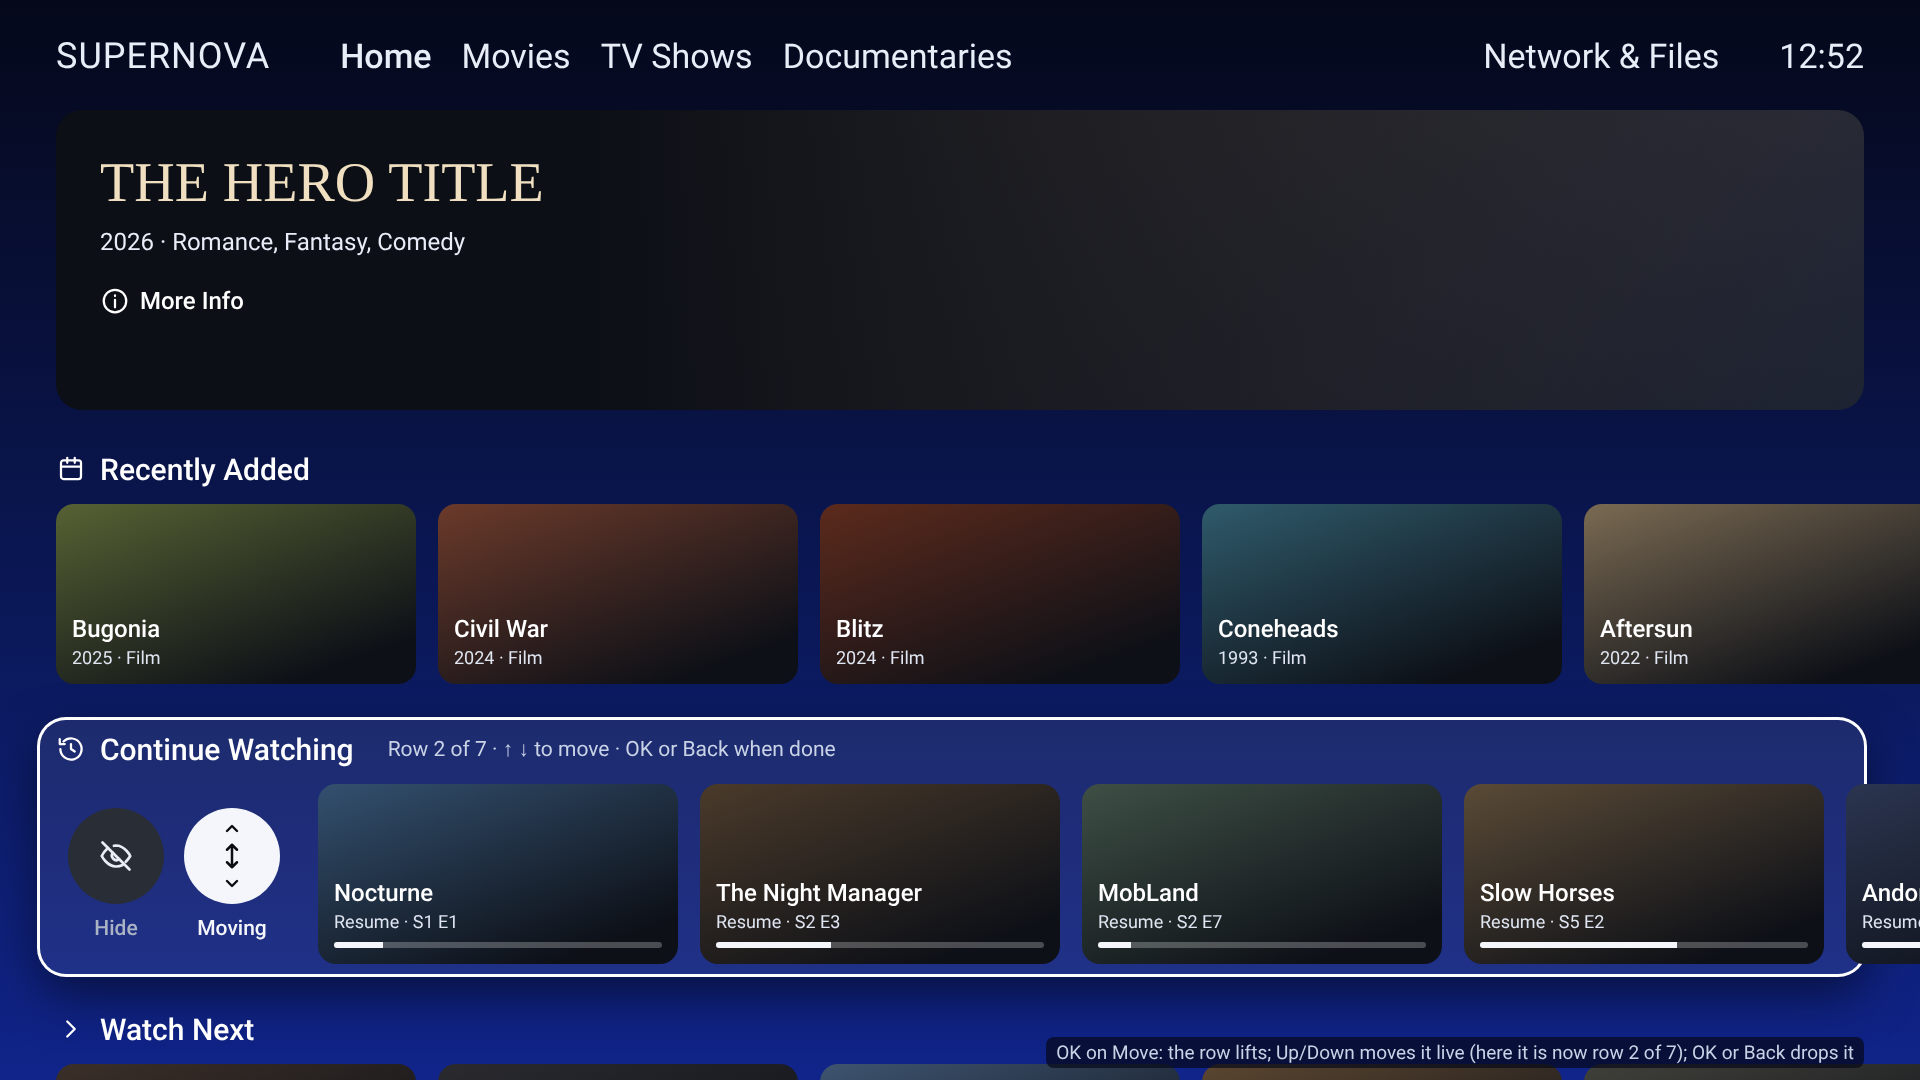
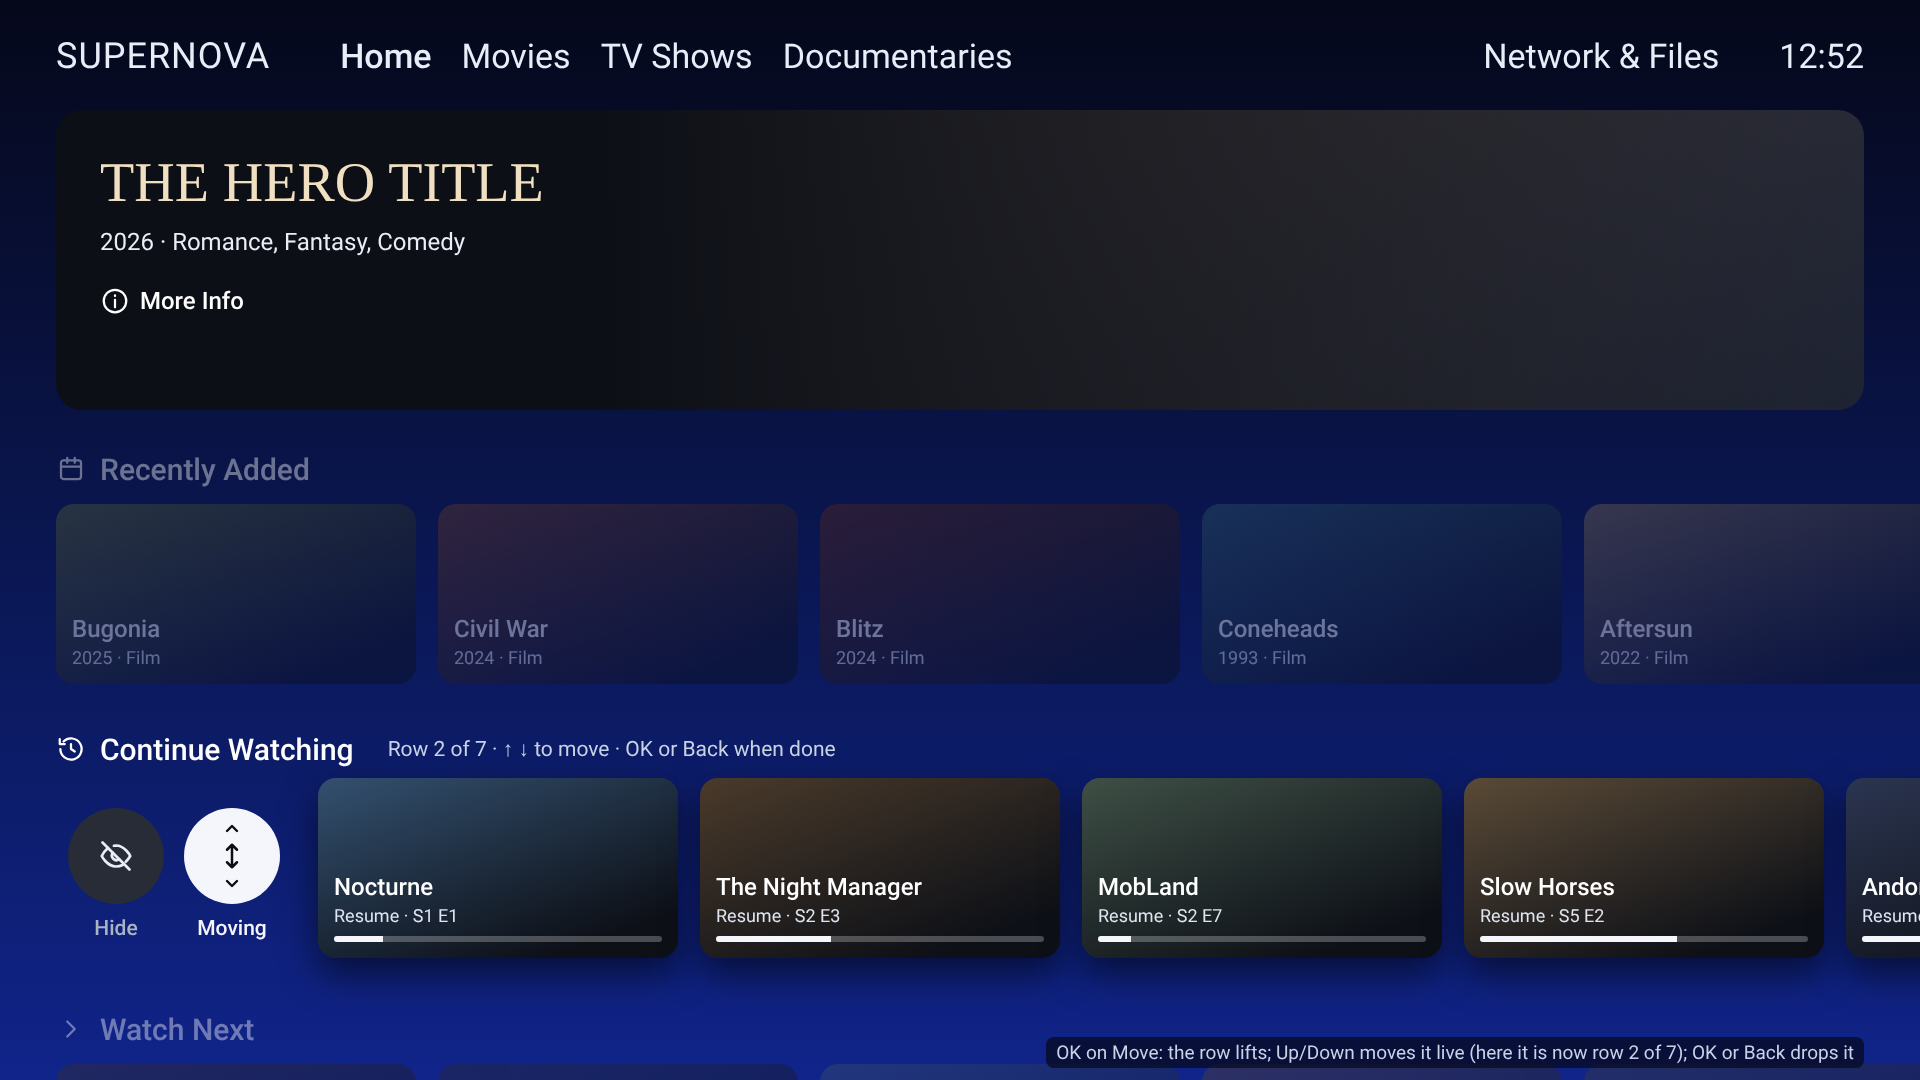
Home row controls: first-card hint, moving row without outline box
Claude-Session: https://claude.ai/code/session_01FtDZqamY6pdaUKwc7fqgiA

Changed region(s): [[0.0312, 0.4278, 1.0, 0.6417], [0.0, 0.7028, 1.0, 1.0]]

diff --git a/docs/design/proposals/home-row-controls/render.js b/docs/design/proposals/home-row-controls/render.js
@@ -11,7 +11,7 @@ const P = {
   minus: '<circle cx="12" cy="12" r="9"/><path d="M8 12h8"/>', hide: '<path d="M3 3l18 18"/><path d="M10.6 5.2A10 10 0 0 1 12 5c6 0 9.5 7 9.5 7a17 17 0 0 1-3 3.8M6.6 6.6A17 17 0 0 0 2.5 12S6 19 12 19a9.6 9.6 0 0 0 4.4-1"/><path d="M9.9 9.9a3 3 0 0 0 4.2 4.2"/>',
   move: '<path d="M12 3v18M8 7l4-4 4 4M8 17l4 4 4-4"/>', up: '<path d="M7 14l5-5 5 5"/>', down: '<path d="M7 10l5 5 5-5"/>',
   hist: '<path d="M3.5 12a8.5 8.5 0 1 0 2.5-6"/><path d="M3 4v4h4M12 8v4l3 2"/>', cal: '<rect x="4" y="5" width="16" height="15" rx="2"/><path d="M4 10h16M9 3v4M15 3v4"/>',
-  next: '<path d="M9 6l6 6-6 6"/>', info: '<circle cx="12" cy="12" r="9"/><path d="M12 11v6M12 7.5v.5"/>',
+  next: '<path d="M9 6l6 6-6 6"/>', back: '<path d="M15 5l-7 7 7 7"/>', info: '<circle cx="12" cy="12" r="9"/><path d="M12 11v6M12 7.5v.5"/>',
 };
 const ic = (k, s = 32, w = 1.8) => `<svg width="${s}" height="${s}" viewBox="0 0 24 24" fill="none" stroke="currentColor" stroke-width="${w}" stroke-linecap="round" stroke-linejoin="round">${P[k]}</svg>`;
 const nav = `<div class="nav"><span class="brand">SUPERNOVA</span><span class="on">Home</span><span>Movies</span><span>TV Shows</span><span>Documentaries</span><span class="sp"></span><span>Network &amp; Files</span><span class="clock">12:52</span></div>`;
@@ -30,11 +30,13 @@ const controls = mode => `<div class="ctl">${btn('hide', 'Hide', mode === 'hide'
   : btn('move', 'Move', mode === 'move')}</div>`;
 const row = (id, mode) => {
   const [icon, name] = rowDefs[id];
-  const active = mode && id === 'continue';
-  return `<div class="row${active ? ' active' : ''}${active && mode === 'moving' ? ' lifted' : ''}"><div class="rh">${ic(icon, 30)}${name}${active && mode === 'moving' ? '<span class="hint">Row 2 of 7 · ↑ ↓ to move · OK or Back when done</span>' : ''}</div>
-    <div class="rc">${active ? controls(mode) : ''}<div class="cards">${cards[id].map((c, i) => card(c, false)).join('')}</div></div></div>`;
+  const active = mode && mode !== 'first' && id === 'continue';
+  const first = mode === 'first' && id === 'continue';
+  return `<div class="row${active ? ' active' : ''}${active && mode === 'moving' ? ' lifted' : ''}${mode === 'moving' && !active ? ' dimrow' : ''}"><div class="rh">${ic(icon, 30)}${name}${active && mode === 'moving' ? '<span class="hint">Row 2 of 7 · ↑ ↓ to move · OK or Back when done</span>' : ''}</div>
+    <div class="rc">${first ? `<div class="chev">${ic('back', 40, 2)}</div>` : active ? controls(mode) : ''}<div class="cards">${cards[id].map((c, i) => card(c, first && i === 0)).join('')}</div></div></div>`;
 };
 const shots = [
+  ['00-first-card-hint.png', ['continue', 'recent', 'next'], 'first', 'On the first card: a faint ‹ to the left says there is more that way; one press Left reveals the buttons'],
   ['01-left-reveals-hide.png', ['continue', 'recent', 'next'], 'hide', 'Left on the first card: the row slides right and two same-size round buttons appear side by side — Hide is focused'],
   ['02-move-focused.png', ['continue', 'recent', 'next'], 'move', 'Right moves to Move; Left goes back to Hide; Right again returns to the first card'],
   ['03-moving-live.png', ['recent', 'continue', 'next'], 'moving', 'OK on Move: the row lifts; Up/Down moves it live (here it is now row 2 of 7); OK or Back drops it'],
@@ -49,7 +51,10 @@ body{width:1920px;height:1080px;overflow:hidden;font-family:R;color:#fff;positio
 .more{display:inline-flex;gap:10px;align-items:center;font-size:24px;font-weight:500;margin-top:30px}
 .rows{position:absolute;left:56px;right:0;top:440px}
 .row{margin-bottom:26px;transition:none;border-radius:26px;padding:6px 0 10px}
-.row.lifted{background:rgba(255,255,255,.07);box-shadow:0 0 0 3px #fff, 0 20px 50px rgba(0,0,0,.5);margin-left:-16px;padding-left:16px;margin-right:56px}
+.row.lifted .card{transform:translateY(-6px);box-shadow:0 16px 36px rgba(0,0,0,.55)}
+.row.dimrow{opacity:.4}
+.rc{position:relative}.chev{position:absolute;left:-50px;top:70px;color:rgba(244,246,251,.65)}
+.card.focus{box-shadow:0 0 0 3px #fff}
 .rh{display:flex;align-items:center;gap:14px;font-size:30px;font-weight:500;height:46px;margin-bottom:12px}
 .hint{margin-left:20px;font-size:21px;font-weight:400;color:#c9d3e6}
 .rc{display:flex;align-items:center;gap:26px}

diff --git a/docs/0.155/OWNER_NOTES.md b/docs/0.155/OWNER_NOTES.md
@@ -158,7 +158,9 @@ Codex's branch `codex/0155-code-2026-11-04` (DP-01…DP-07, TV-only stages). **N
 - **Proposed (`docs/design/proposals/home-row-controls/01`–`03`, revised 4 Nov 2026 after the owner asked for the
   buttons side by side and the same size):** Left on the first card slides the row right and shows two same-size
   round buttons side by side, **Hide** and **Move**, each labelled underneath; the focused one is white. Left/Right
-  moves between them, and Right from Move returns to the first card. OK on Move lifts the row (white outline); Up/Down moves it live, one place at a
+  moves between them, and Right from Move returns to the first card. On the first card a faint ‹ in the left margin hints that there is more that way (`00`); one press Left reveals the
+  buttons. OK on Move lifts the row's cards slightly and dims the other rows (no outline box — the owner found the cut-off
+  box in the first `03` odd); Up/Down moves it live, one place at a
   time, with "Moving · row 2 of 7"; OK or Back drops it. Hide removes the row with an Undo notice (rows come back
   from Customise Home).
-- **Status:** awaiting the owner's approval — then awaiting go-ahead to code.
+- **Status:** layout approved by the owner on 4 Nov 2026; revised `00` and `03` awaiting a final look — then awaiting go-ahead to code.
